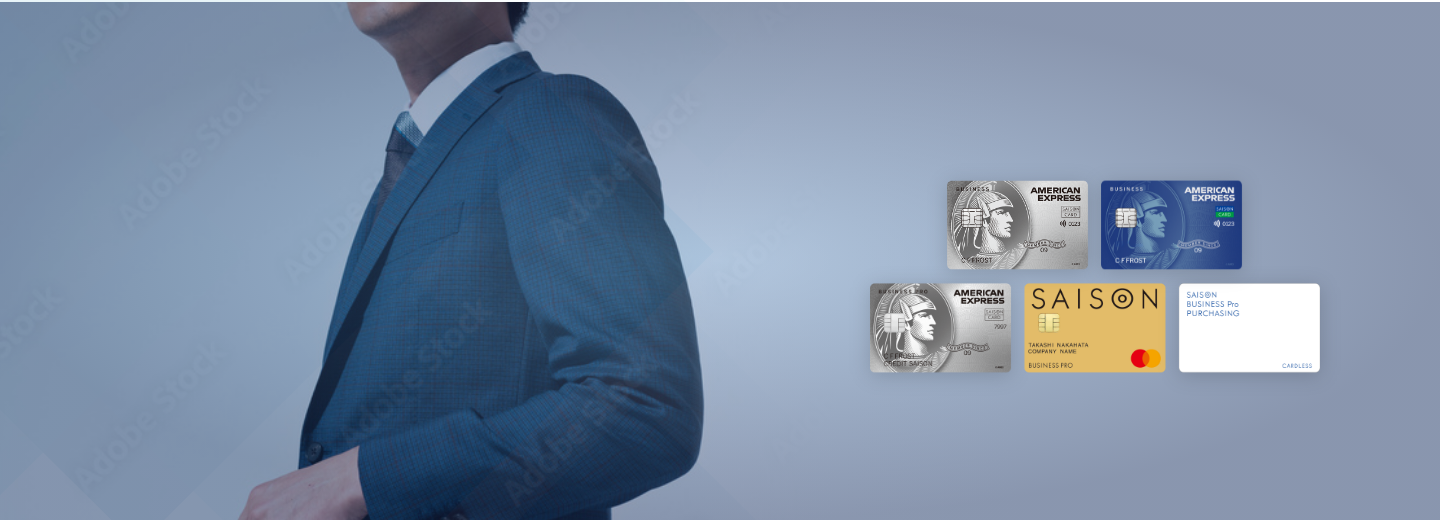
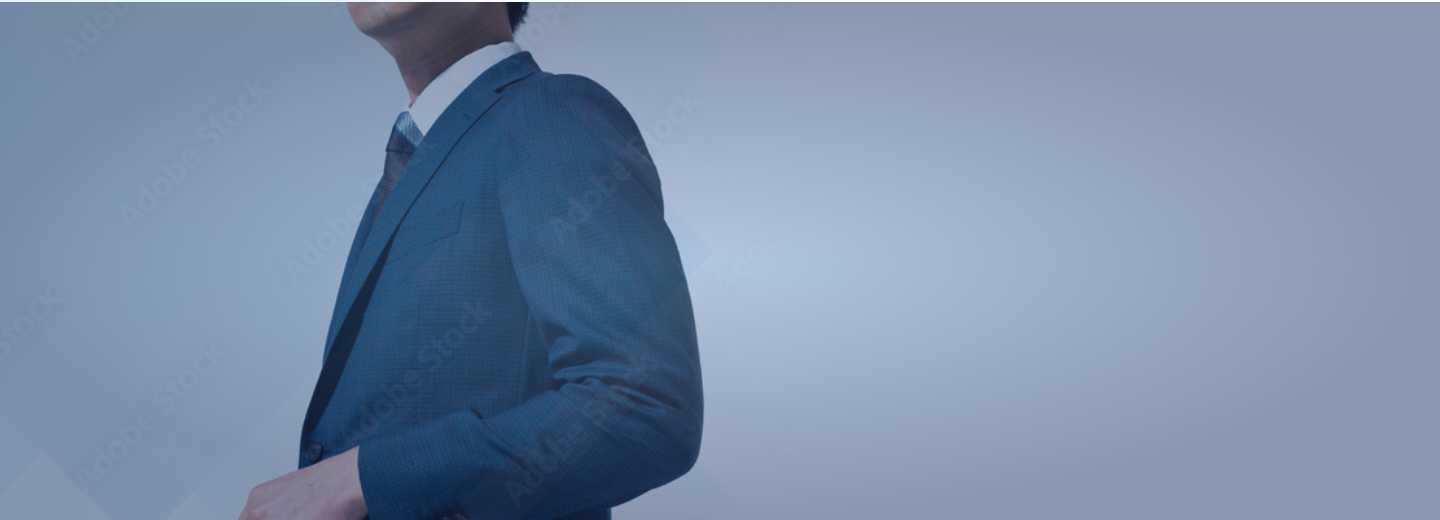
fix ui

Changed region(s): [[0.5938, 0.3385, 0.9375, 0.7385]]

diff --git a/app/assets/scss/4-pages/_saison_invoice.scss b/app/assets/scss/4-pages/_saison_invoice.scss
@@ -16,7 +16,7 @@
     }
 
     .ttl-primary {
-      font-size: 32px;
+      font-size: 42px;
       margin-bottom: 40px;
       text-align: center;
       font-weight: bold;
@@ -323,10 +323,20 @@
 
         .ttl-quaternary {
           margin-bottom: 20px;
+          font-size: 20px;
         }
 
         .ttl-tertiary {
           margin-bottom: 10px;
+        }
+        @media #{$sp} {
+          .ttl-quaternary {
+            font-size: 14px;
+            margin-top: 20px;
+          }
+          .ttl-tertiary {
+            font-size: 14px;
+          }
         }
       }
     }
@@ -352,6 +362,10 @@
 
   .section-tertiary {
     padding: 60px 120px 70px;
+    .ttl-primary {
+      margin-bottom: 65px;
+    }
+
     @media #{$sp} {
       padding: 35px 15px;
     }
@@ -518,6 +532,13 @@
     }
 
     .section-more {
+      .blue_gradient_btn {
+        max-width: 500px;
+        @media #{$sp} {
+          font-size: 12px;
+          max-width: 90%;
+        }
+      }
       .act-more-tooltip {
         @media #{$sp} {
           top: -115px;

diff --git a/app/assets/scss/4-pages/_business_card_creation.scss b/app/assets/scss/4-pages/_business_card_creation.scss
@@ -32,6 +32,24 @@
       font-size: 20px;
     }
 
+    .banner-container {
+      display: grid;
+      grid-template-columns: 1.5fr 1fr;
+      gap: 50px;
+      @media #{$sp} {
+        grid-template-columns: 1fr;
+        gap: 0px;
+      }
+      .right-content {
+        margin-top: 25px;
+        width: 100%;
+        .banner-img {
+          max-width: 100%;
+          object-fit: cover;
+        }
+      }
+    }
+
     @media #{$sp} {
       padding: 35px 15px;
       .ttl-primary {
@@ -41,7 +59,7 @@
         font-size: 18px;
       }
       .ttl-quaternary {
-        font-size: 16px;
+        font-size: 14px;
       }
     }
   }
@@ -296,7 +314,7 @@
             margin-bottom: 20px;
             img {
               max-width: 100%;
-              object-fit: cover;
+              object-fit: contain;
             }
           }
           .ttl-quaternary {
